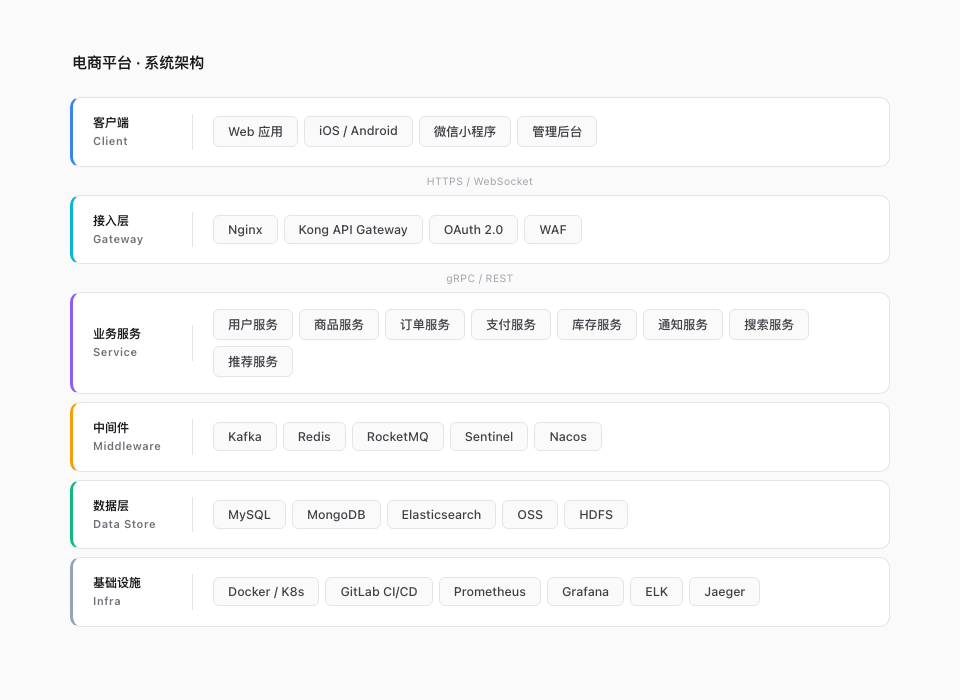
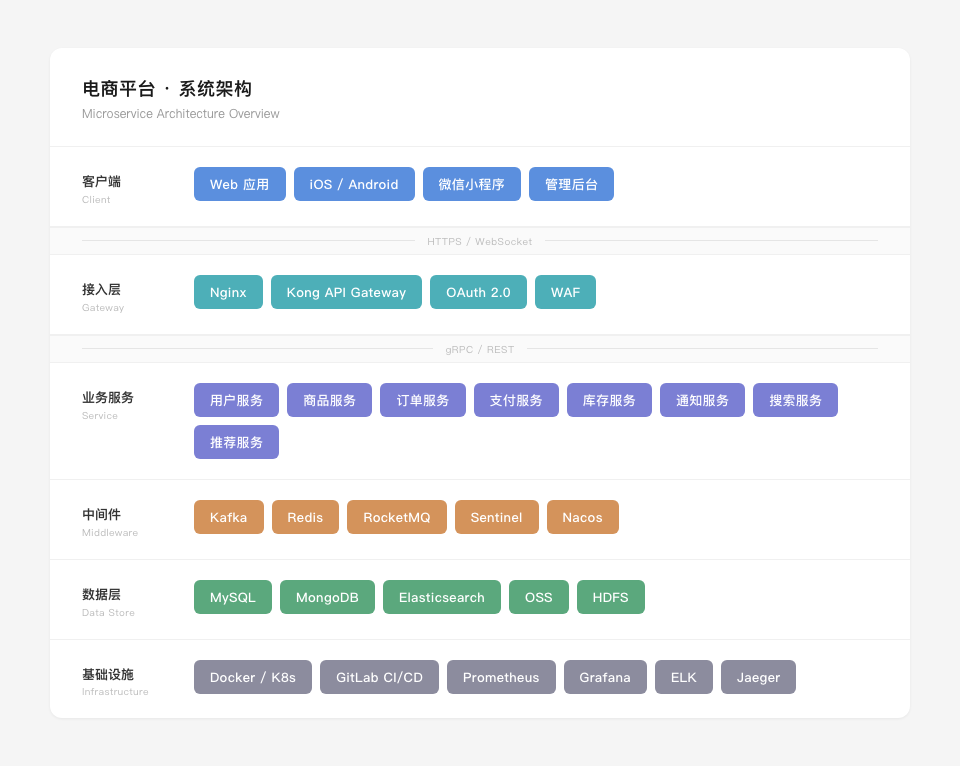
refactor: 架构图迭代至 v4，确认 HTML/CSS 分层式方案
架构图经过 4 轮迭代：
- v1: D2 图论布局 → 连线混乱，不适合分层图
- v2: D2 简化连线 → 布局引擎仍无法精确控制层级
- v3: HTML 分层堆叠 + emoji → 太花哨
- v4: HTML 低饱和色块 + 无 icon → 方向对了，待制定统一设计规范

下一步：先制定统一设计规范（配色/字体/间距/组件样式），再按规范重做所有示例

diff --git a/diagram-examples/custom/custom-architecture.html b/diagram-examples/custom/custom-architecture.html
@@ -5,168 +5,227 @@
 <style>
   * { margin: 0; padding: 0; box-sizing: border-box; }
   body {
-    background: #FAFAFA;
-    font-family: "SF Pro Display", -apple-system, BlinkMacSystemFont, "Inter", "Segoe UI", sans-serif;
+    background: #F5F5F5;
+    font-family: "PingFang SC", -apple-system, BlinkMacSystemFont, "SF Pro Display", "Segoe UI", sans-serif;
     display: flex;
     justify-content: center;
-    padding: 52px 40px;
+    padding: 48px 32px;
     -webkit-font-smoothing: antialiased;
   }
 
   .arch {
-    width: 820px;
+    width: 860px;
+    background: #fff;
+    border-radius: 12px;
+    box-shadow: 0 1px 3px rgba(0,0,0,0.06);
+    overflow: hidden;
+  }
+
+  /* 标题栏 */
+  .header {
+    padding: 28px 32px 24px;
+    border-bottom: 1px solid #F0F0F0;
+  }
+  .header h1 {
+    font-size: 18px;
+    font-weight: 600;
+    color: #1A1A1A;
+    letter-spacing: 0.5px;
+  }
+  .header p {
+    font-size: 12px;
+    color: #999;
+    margin-top: 4px;
+  }
+
+  /* 每层 */
+  .layer {
+    padding: 20px 32px;
     display: flex;
-    flex-direction: column;
+    align-items: flex-start;
+    gap: 24px;
+    border-bottom: 1px solid #F0F0F0;
+  }
+  .layer:last-child { border-bottom: none; }
+
+  /* 层标签 */
+  .layer-meta {
+    width: 88px;
+    flex-shrink: 0;
+    padding-top: 6px;
+  }
+  .layer-name {
+    font-size: 13px;
+    font-weight: 600;
+    color: #333;
+    line-height: 1.3;
+  }
+  .layer-en {
+    font-size: 10px;
+    color: #BBB;
+    font-weight: 400;
+    margin-top: 2px;
+    letter-spacing: 0.3px;
+  }
+
+  /* 组件区域 */
+  .layer-body {
+    flex: 1;
+    display: flex;
+    flex-wrap: wrap;
     gap: 8px;
   }
 
-  .title {
-    font-size: 15px;
-    font-weight: 600;
-    color: #18181B;
-    margin-bottom: 16px;
-    padding-left: 2px;
+  /* 组件卡片 */
+  .comp {
+    padding: 8px 16px;
+    border-radius: 6px;
+    font-size: 13px;
+    font-weight: 500;
+    color: #fff;
+    letter-spacing: 0.3px;
   }
 
-  .layer {
-    background: #fff;
-    border: 1px solid #E4E4E7;
-    border-radius: 10px;
-    padding: 16px 20px;
+  /* 每层组件配色 — 低饱和、专业 */
+  .c-client  { background: #5B8FDE; }
+  .c-gateway { background: #4DAFB8; }
+  .c-service { background: #7B7FD4; }
+  .c-mw      { background: #D4935B; }
+  .c-data    { background: #5BA87D; }
+  .c-infra   { background: #8C8C9E; }
+
+  /* 层间协议标注 */
+  .proto-row {
+    padding: 0 32px;
     display: flex;
     align-items: center;
-    gap: 20px;
-  }
-
-  .layer-label {
-    width: 100px;
-    flex-shrink: 0;
-    font-size: 11px;
-    font-weight: 600;
-    letter-spacing: 0.5px;
-    color: #71717A;
-    line-height: 1.5;
-    border-right: 1px solid #E4E4E7;
-    padding-right: 16px;
-  }
-  .layer-label span {
-    display: block;
-    font-size: 12px;
-    font-weight: 700;
-    color: #18181B;
-    margin-bottom: 1px;
-    letter-spacing: 0;
-  }
-
-  .layer-items {
-    display: flex;
-    gap: 6px;
-    flex-wrap: wrap;
-    flex: 1;
-  }
-
-  .item {
-    padding: 6px 14px;
-    border-radius: 6px;
-    font-size: 12.5px;
-    font-weight: 500;
-    color: #3F3F46;
+    gap: 12px;
+    height: 28px;
     background: #FAFAFA;
-    border: 1px solid #E4E4E7;
-    transition: background 0.1s;
+    border-bottom: 1px solid #F0F0F0;
+    border-top: 1px solid #F0F0F0;
   }
-
-  /* 每层左侧色条 */
-  .l-client  { border-left: 3px solid #3B82F6; }
-  .l-gateway { border-left: 3px solid #06B6D4; }
-  .l-service { border-left: 3px solid #8B5CF6; }
-  .l-mw      { border-left: 3px solid #F59E0B; }
-  .l-data    { border-left: 3px solid #10B981; }
-  .l-infra   { border-left: 3px solid #94A3B8; }
-
-  /* 协议标注 */
-  .proto {
-    font-size: 10.5px;
-    color: #A1A1AA;
-    text-align: center;
-    padding: 0;
-    letter-spacing: 0.3px;
+  .proto-row .line {
+    flex: 1;
+    height: 1px;
+    background: #E5E5E5;
+  }
+  .proto-row .label {
+    font-size: 10px;
+    color: #BBB;
+    letter-spacing: 0.5px;
+    white-space: nowrap;
   }
 </style>
 </head>
 <body>
   <div class="arch">
-    <div class="title">电商平台 · 系统架构</div>
+    <div class="header">
+      <h1>电商平台 · 系统架构</h1>
+      <p>Microservice Architecture Overview</p>
+    </div>
 
-    <div class="layer l-client">
-      <div class="layer-label"><span>客户端</span>Client</div>
-      <div class="layer-items">
-        <div class="item">Web 应用</div>
-        <div class="item">iOS / Android</div>
-        <div class="item">微信小程序</div>
-        <div class="item">管理后台</div>
+    <!-- 客户端 -->
+    <div class="layer">
+      <div class="layer-meta">
+        <div class="layer-name">客户端</div>
+        <div class="layer-en">Client</div>
+      </div>
+      <div class="layer-body">
+        <div class="comp c-client">Web 应用</div>
+        <div class="comp c-client">iOS / Android</div>
+        <div class="comp c-client">微信小程序</div>
+        <div class="comp c-client">管理后台</div>
       </div>
     </div>
 
-    <div class="proto">HTTPS / WebSocket</div>
+    <div class="proto-row">
+      <div class="line"></div>
+      <div class="label">HTTPS / WebSocket</div>
+      <div class="line"></div>
+    </div>
 
-    <div class="layer l-gateway">
-      <div class="layer-label"><span>接入层</span>Gateway</div>
-      <div class="layer-items">
-        <div class="item">Nginx</div>
-        <div class="item">Kong API Gateway</div>
-        <div class="item">OAuth 2.0</div>
-        <div class="item">WAF</div>
+    <!-- 接入层 -->
+    <div class="layer">
+      <div class="layer-meta">
+        <div class="layer-name">接入层</div>
+        <div class="layer-en">Gateway</div>
+      </div>
+      <div class="layer-body">
+        <div class="comp c-gateway">Nginx</div>
+        <div class="comp c-gateway">Kong API Gateway</div>
+        <div class="comp c-gateway">OAuth 2.0</div>
+        <div class="comp c-gateway">WAF</div>
       </div>
     </div>
 
-    <div class="proto">gRPC / REST</div>
+    <div class="proto-row">
+      <div class="line"></div>
+      <div class="label">gRPC / REST</div>
+      <div class="line"></div>
+    </div>
 
-    <div class="layer l-service">
-      <div class="layer-label"><span>业务服务</span>Service</div>
-      <div class="layer-items">
-        <div class="item">用户服务</div>
-        <div class="item">商品服务</div>
-        <div class="item">订单服务</div>
-        <div class="item">支付服务</div>
-        <div class="item">库存服务</div>
-        <div class="item">通知服务</div>
-        <div class="item">搜索服务</div>
-        <div class="item">推荐服务</div>
+    <!-- 业务服务 -->
+    <div class="layer">
+      <div class="layer-meta">
+        <div class="layer-name">业务服务</div>
+        <div class="layer-en">Service</div>
+      </div>
+      <div class="layer-body">
+        <div class="comp c-service">用户服务</div>
+        <div class="comp c-service">商品服务</div>
+        <div class="comp c-service">订单服务</div>
+        <div class="comp c-service">支付服务</div>
+        <div class="comp c-service">库存服务</div>
+        <div class="comp c-service">通知服务</div>
+        <div class="comp c-service">搜索服务</div>
+        <div class="comp c-service">推荐服务</div>
       </div>
     </div>
 
-    <div class="layer l-mw">
-      <div class="layer-label"><span>中间件</span>Middleware</div>
-      <div class="layer-items">
-        <div class="item">Kafka</div>
-        <div class="item">Redis</div>
-        <div class="item">RocketMQ</div>
-        <div class="item">Sentinel</div>
-        <div class="item">Nacos</div>
+    <!-- 中间件 -->
+    <div class="layer">
+      <div class="layer-meta">
+        <div class="layer-name">中间件</div>
+        <div class="layer-en">Middleware</div>
+      </div>
+      <div class="layer-body">
+        <div class="comp c-mw">Kafka</div>
+        <div class="comp c-mw">Redis</div>
+        <div class="comp c-mw">RocketMQ</div>
+        <div class="comp c-mw">Sentinel</div>
+        <div class="comp c-mw">Nacos</div>
       </div>
     </div>
 
-    <div class="layer l-data">
-      <div class="layer-label"><span>数据层</span>Data Store</div>
-      <div class="layer-items">
-        <div class="item">MySQL</div>
-        <div class="item">MongoDB</div>
-        <div class="item">Elasticsearch</div>
-        <div class="item">OSS</div>
-        <div class="item">HDFS</div>
+    <!-- 数据层 -->
+    <div class="layer">
+      <div class="layer-meta">
+        <div class="layer-name">数据层</div>
+        <div class="layer-en">Data Store</div>
+      </div>
+      <div class="layer-body">
+        <div class="comp c-data">MySQL</div>
+        <div class="comp c-data">MongoDB</div>
+        <div class="comp c-data">Elasticsearch</div>
+        <div class="comp c-data">OSS</div>
+        <div class="comp c-data">HDFS</div>
       </div>
     </div>
 
-    <div class="layer l-infra">
-      <div class="layer-label"><span>基础设施</span>Infra</div>
-      <div class="layer-items">
-        <div class="item">Docker / K8s</div>
-        <div class="item">GitLab CI/CD</div>
-        <div class="item">Prometheus</div>
-        <div class="item">Grafana</div>
-        <div class="item">ELK</div>
-        <div class="item">Jaeger</div>
+    <!-- 基础设施 -->
+    <div class="layer">
+      <div class="layer-meta">
+        <div class="layer-name">基础设施</div>
+        <div class="layer-en">Infrastructure</div>
+      </div>
+      <div class="layer-body">
+        <div class="comp c-infra">Docker / K8s</div>
+        <div class="comp c-infra">GitLab CI/CD</div>
+        <div class="comp c-infra">Prometheus</div>
+        <div class="comp c-infra">Grafana</div>
+        <div class="comp c-infra">ELK</div>
+        <div class="comp c-infra">Jaeger</div>
       </div>
     </div>
   </div>
